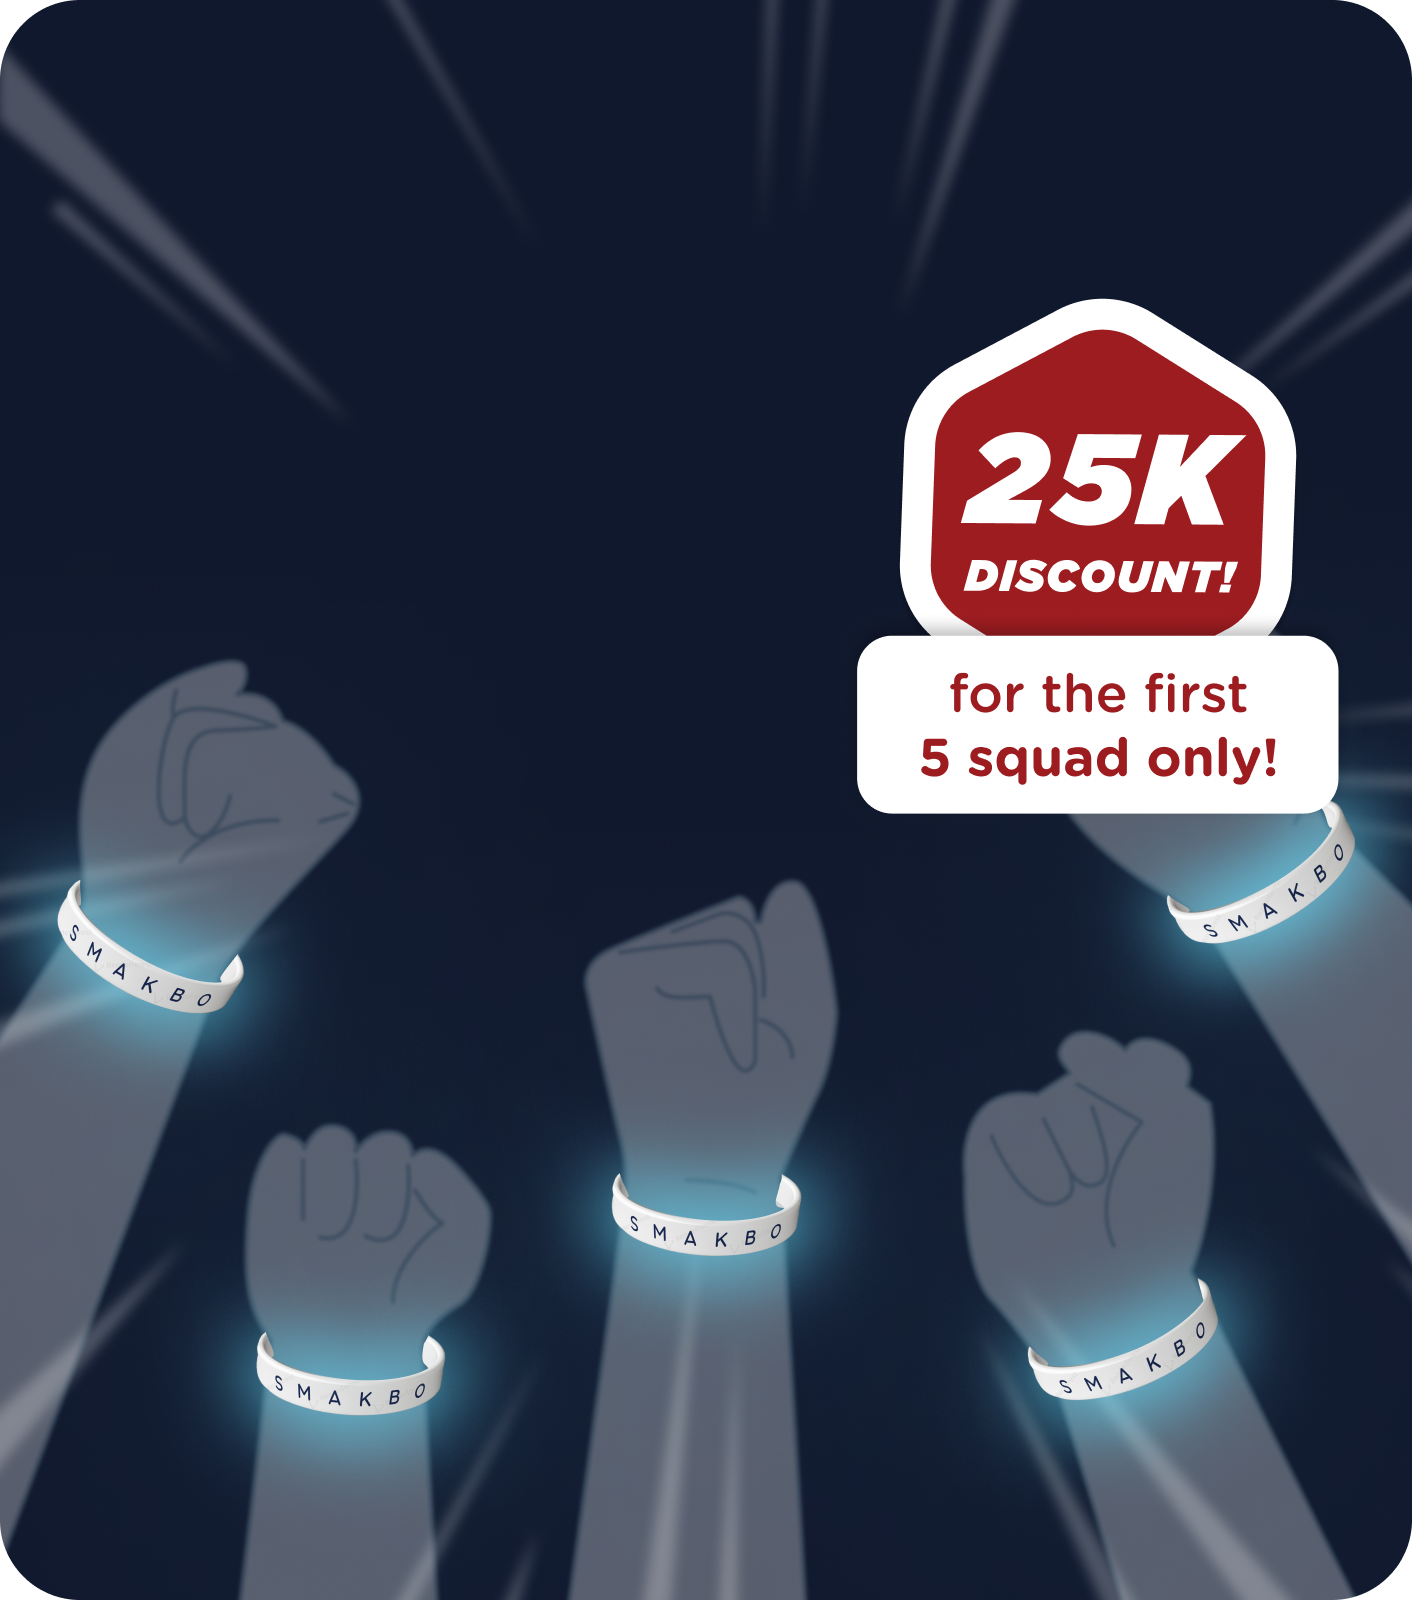
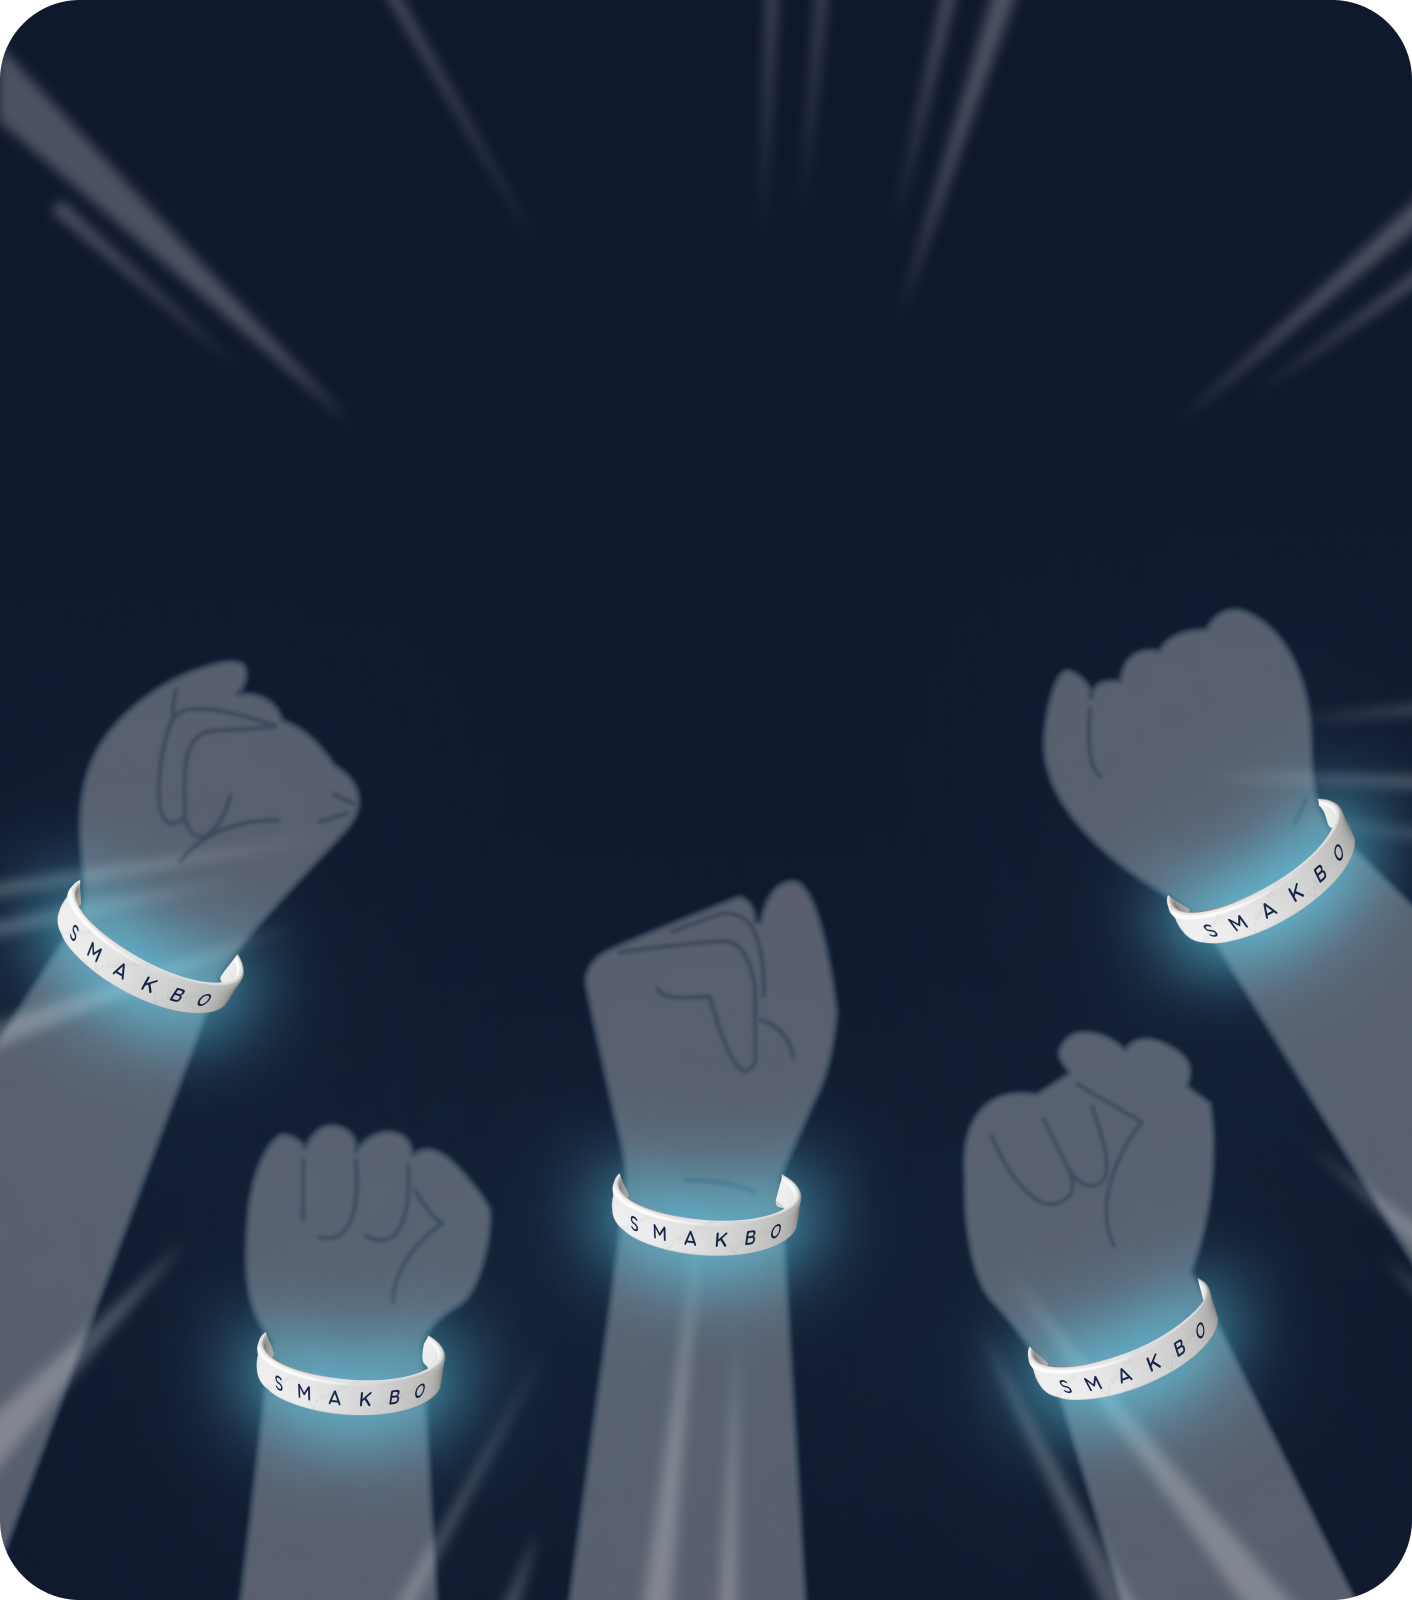
feat: add bouncing discount

Changed region(s): [[0.5921, 0.1875, 0.966, 0.5312]]

diff --git a/src/components/ProductThumbnail.tsx b/src/components/ProductThumbnail.tsx
@@ -53,6 +53,9 @@ const ProductThumbnail = ({ product }: { product: Product }) => {
 			className="relative flex flex-col w-full aspect-[3.5/4] cursor-pointer"
 			onClick={() => handleProductClick()}
 		>
+            {['bring-your-squad'].includes(product.id) && <img src={`/images/thumbnails/${product.id}-discount.png`} className="absolute z-10 w-[150px] right-5 top-28 animate-subtle-bounce"></img>}
+            {['suit-up-your-squad', 'luminous-legacy'].includes(product.id) && <img src={`/images/thumbnails/${product.id}-discount.png`} className="absolute z-10 w-[150px] right-5 bottom-20 animate-subtle-bounce"></img>}
+
             {product.tag.includes('Package') && (
                 <div
                     className="absolute w-full h-full rounded-3xl blur-[5px] animate-aurora bg-gradient-to-r from-[#B1CCFF] to-[#A1BAE8] opacity-90"

diff --git a/tailwind.config.ts b/tailwind.config.ts
@@ -11,6 +11,7 @@ const config: Config = {
     extend: {
         animation: {
             aurora: "aurora 6s ease-in-out infinite",
+            'subtle-bounce': 'subtle-bounce 2s infinite',
         },
         keyframes: {
             aurora: {
@@ -18,6 +19,10 @@ const config: Config = {
                 "25%": { transform: "translateX(1.5%) translateY(0)" },
                 "50%": { transform: "translateX(0) translateY(1.5%)" },
                 "75%": { transform: "translateX(-1.5%) translateY(0)" },
+            },
+            'subtle-bounce': {
+                '0%, 100%': { transform: 'translateY(0)' },
+                '50%': { transform: 'translateY(-10px)' },
             },
         },
         fontFamily: {
